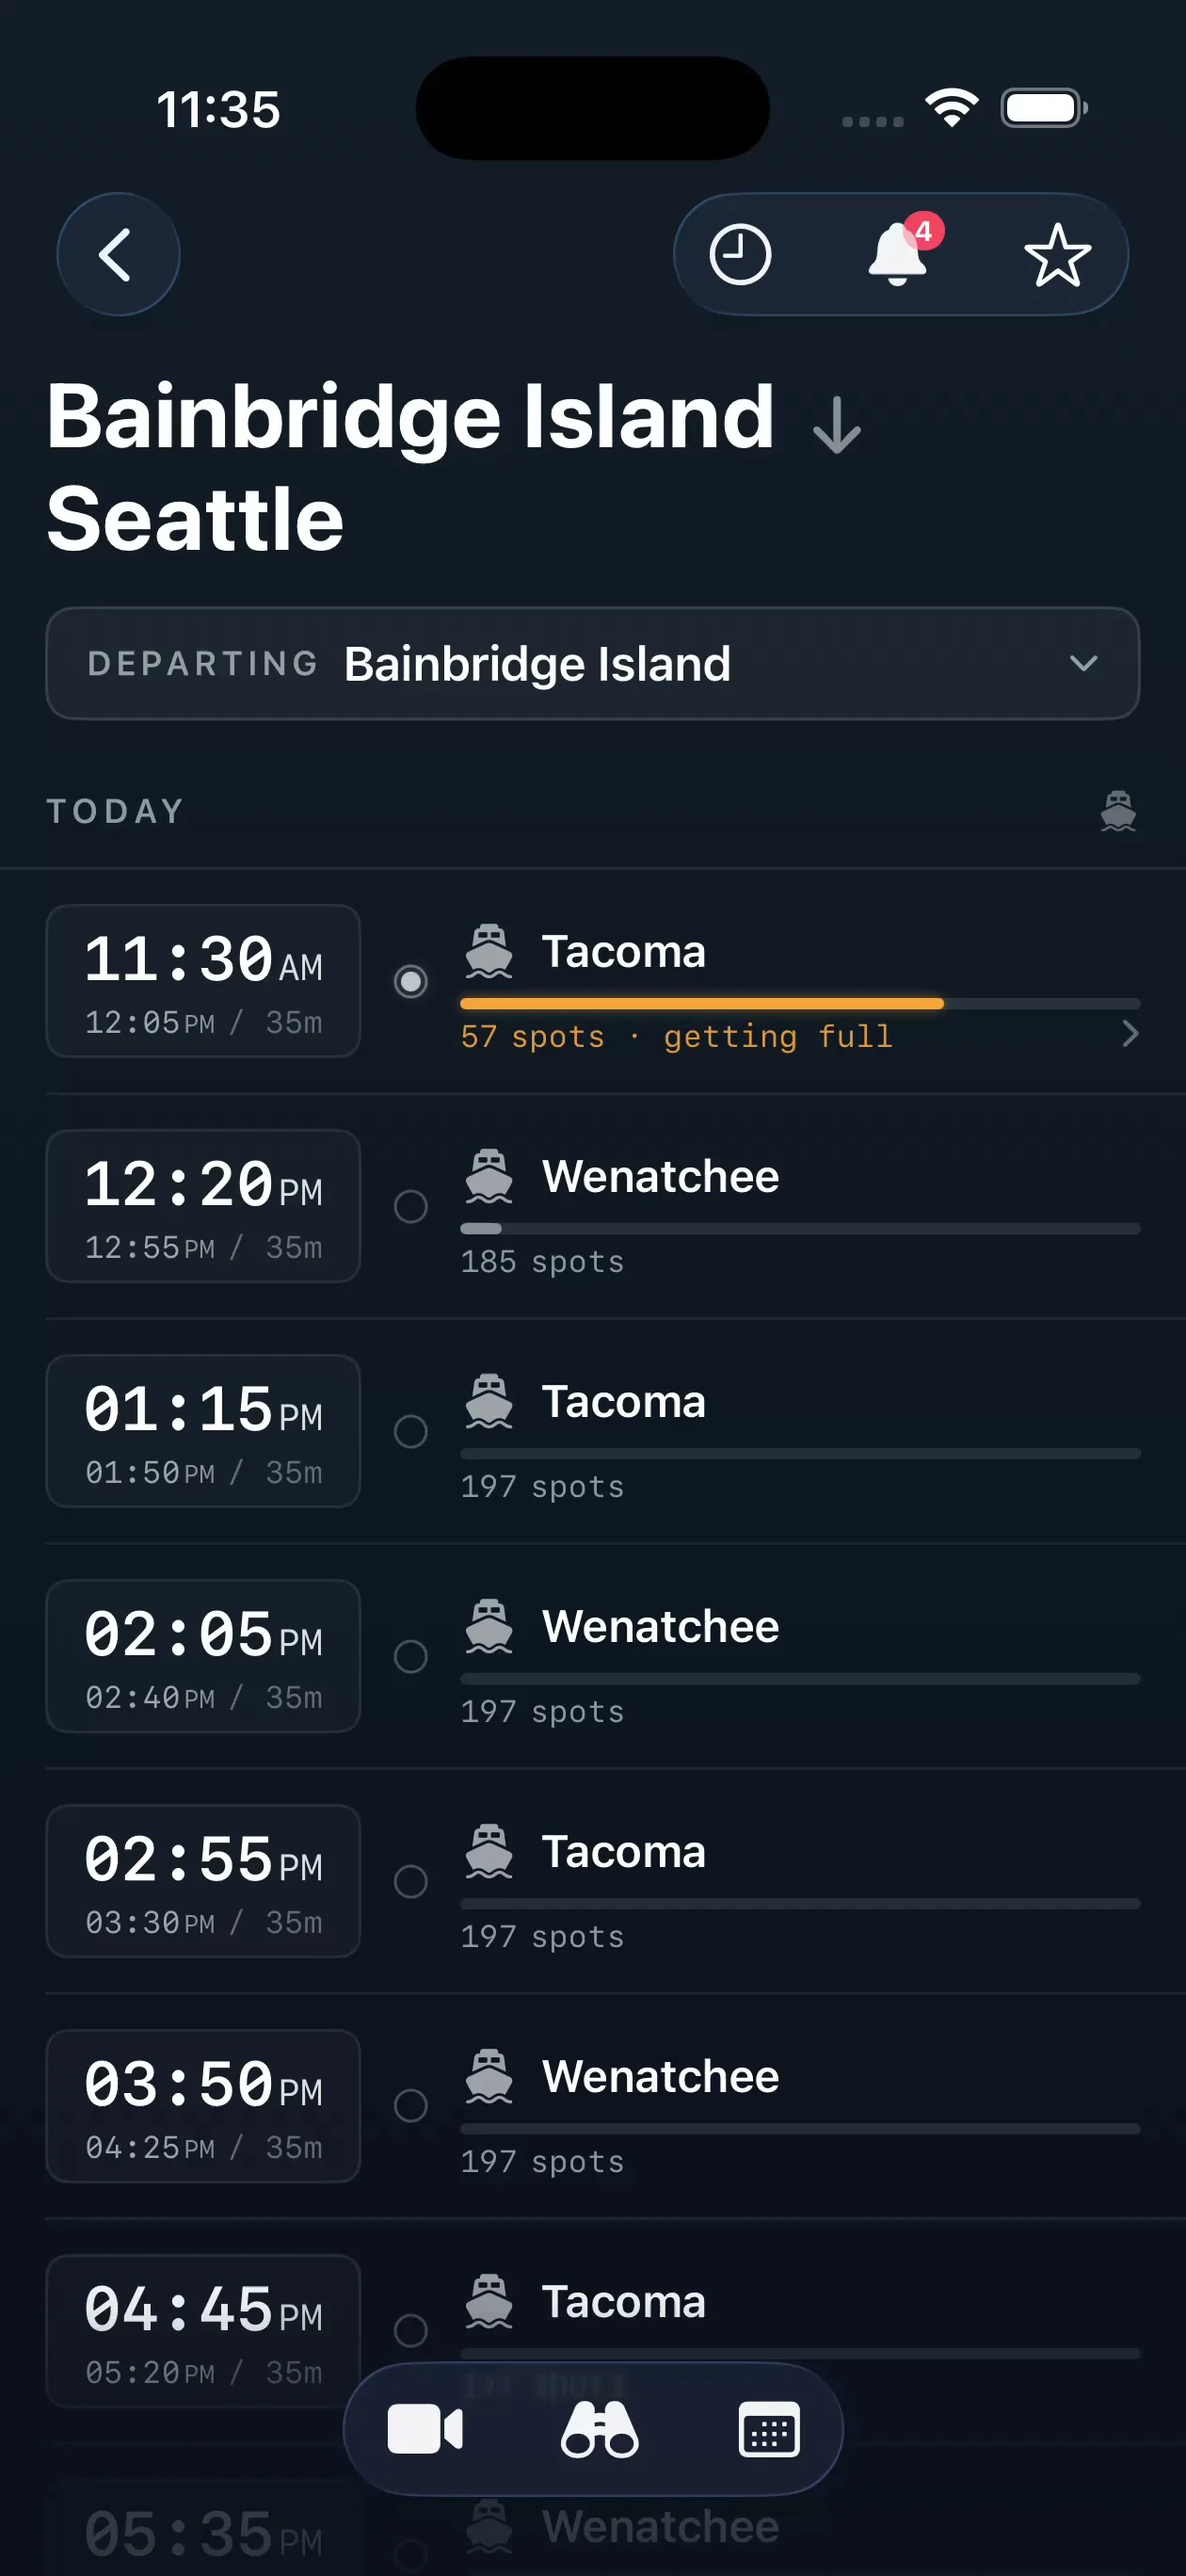
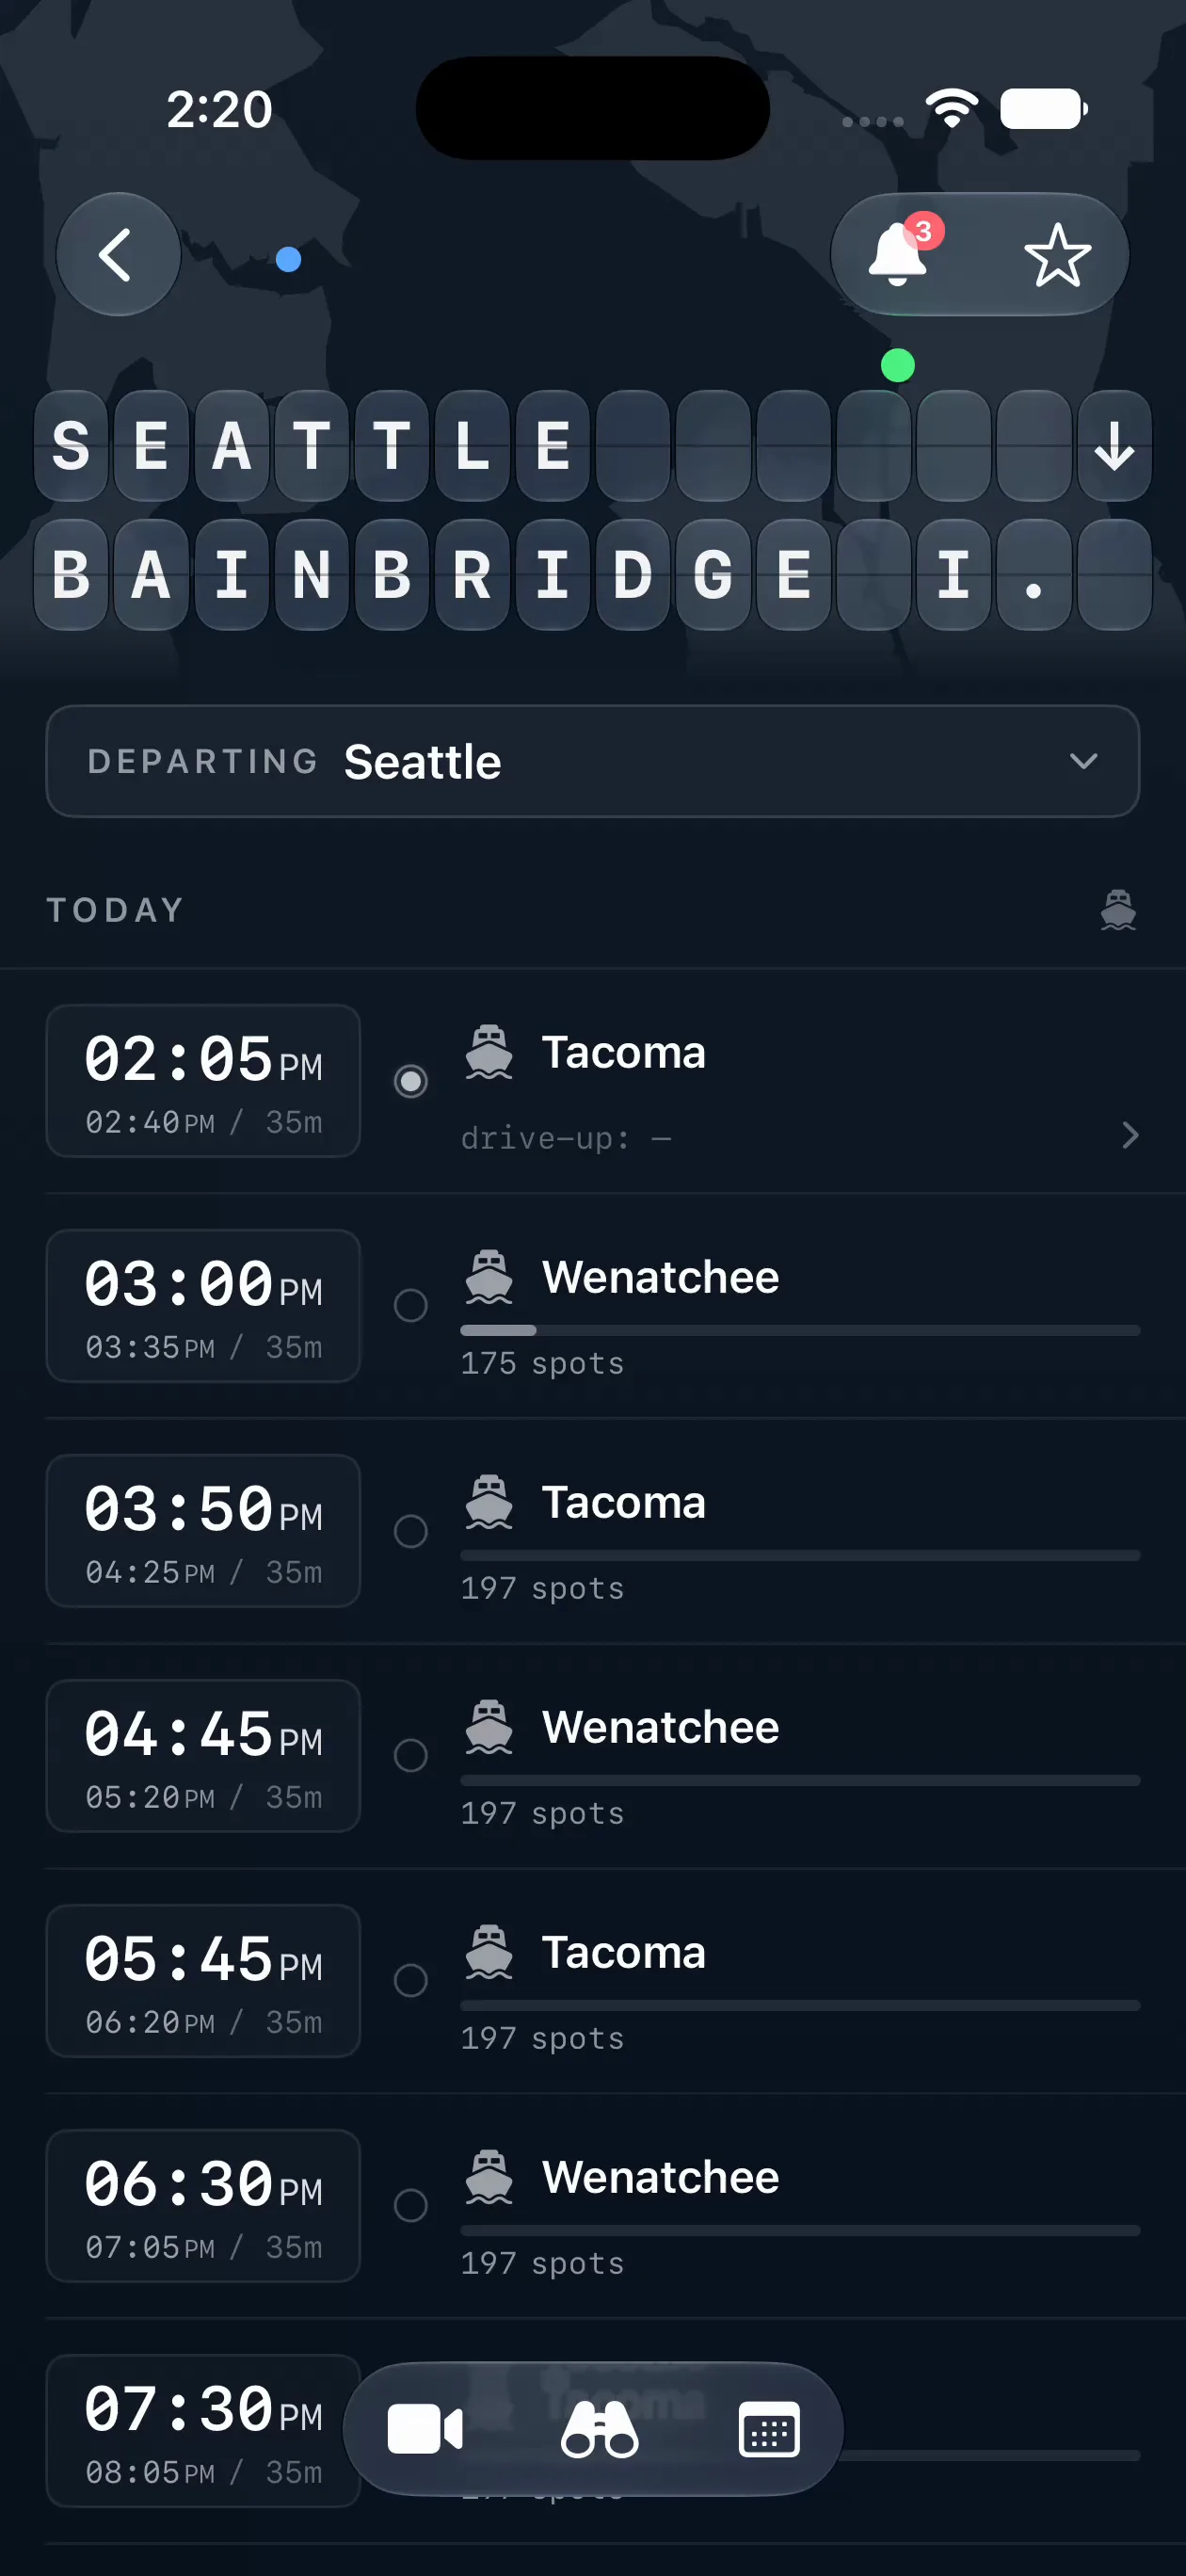
Aweigh Updates

diff --git a/aweigh/index.html b/aweigh/index.html
@@ -38,17 +38,16 @@
             <span class="back-arrow">←</span>
             <span>Portfolio</span>
         </a>
-        <a href="mailto:[email redacted]" class="contact-link">Contact ⧉</a>
+        <div class="nav-right">
+            <a href="https://x.com/zachcolem" class="contact-link">X ⧉</a>
+            <a href="mailto:[email redacted]" class="contact-link">Contact ⧉</a>
+        </div>
     </header>
 
     <main>
         <section class="hero">
             <div class="hero-backdrop" id="hero-backdrop" aria-hidden="true"></div>
             <div class="hero-text">
-                <div class="status-pill">
-                    <span class="status-dot"></span>
-                    <span>Prototype · TestFlight Live</span>
-                </div>
                 <h1 class="title">
                     <span class="title-line">Aweigh.</span>
                 </h1>
@@ -499,7 +498,10 @@
             <span class="back-arrow">←</span>
             <span>Back to portfolio</span>
         </a>
-        <a href="mailto:[email redacted]" class="contact-link">[email redacted] ⧉</a>
+        <div class="nav-right">
+            <a href="https://x.com/zachcolem" class="contact-link">X ⧉</a>
+            <a href="mailto:[email redacted]" class="contact-link">[email redacted] ⧉</a>
+        </div>
     </footer>
 </body>
 </html>

diff --git a/aweigh/style.css b/aweigh/style.css
@@ -88,6 +88,12 @@ main,
     margin-top: 80px;
 }
 
+.nav-right {
+    display: flex;
+    align-items: center;
+    gap: 24px;
+}
+
 .back-link, .contact-link {
     color: var(--text-muted);
     font-size: 0.9rem;